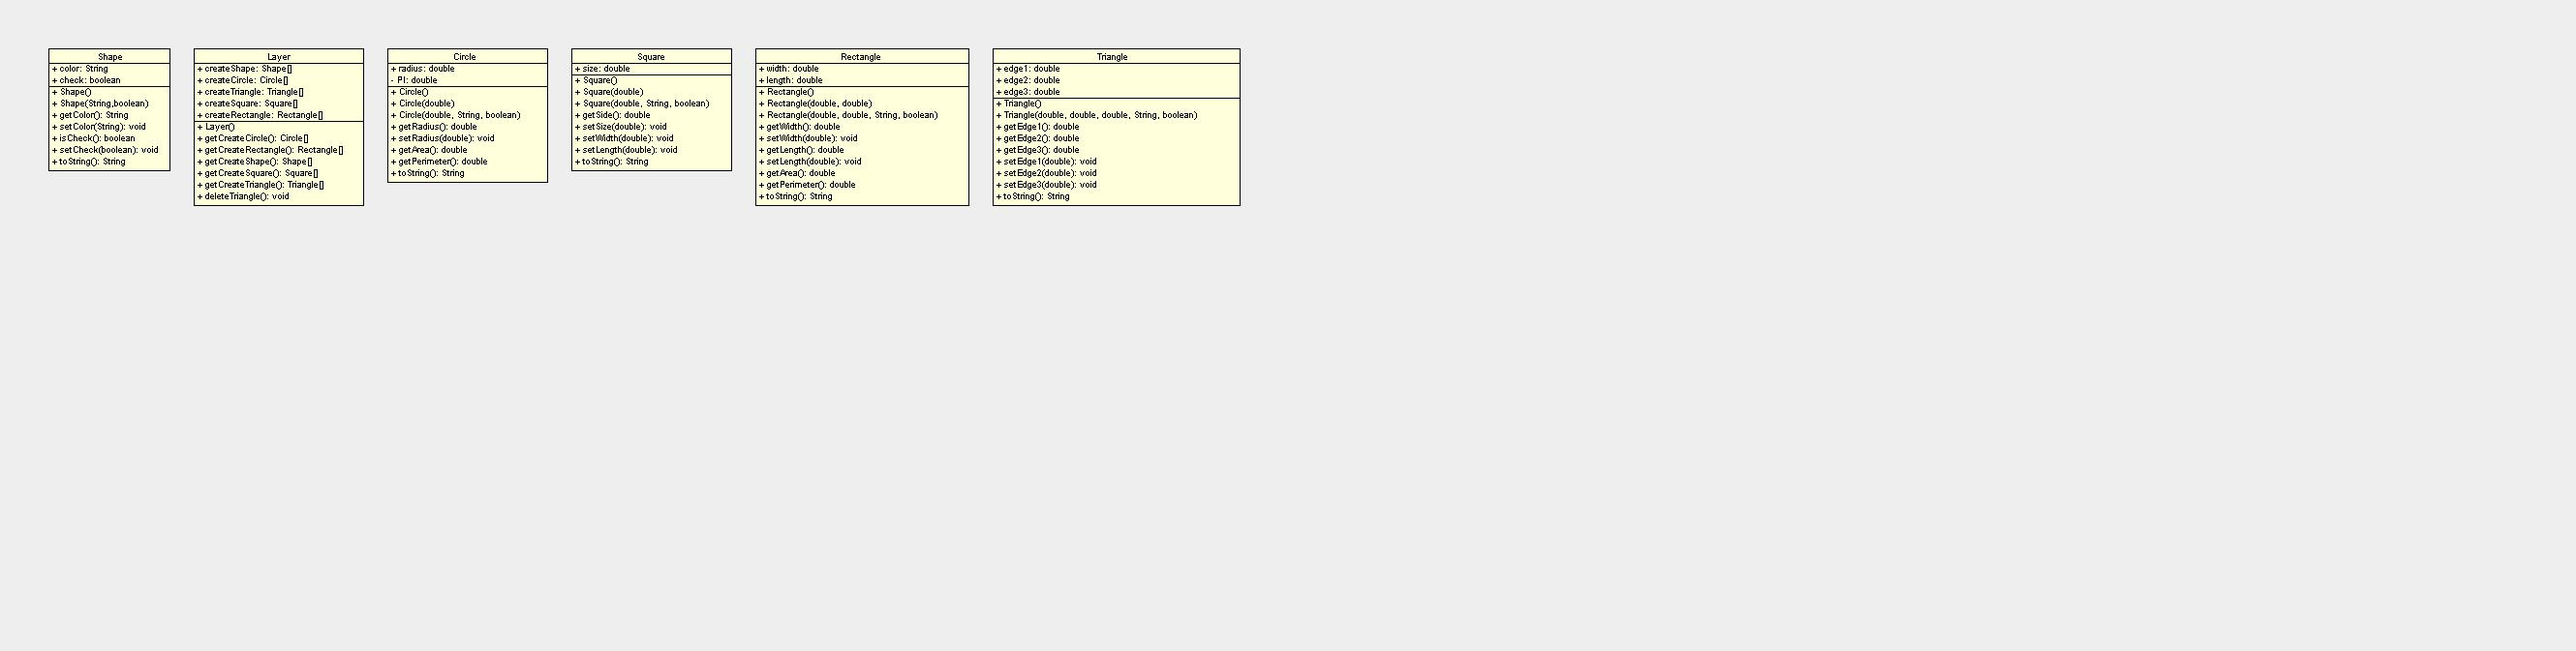
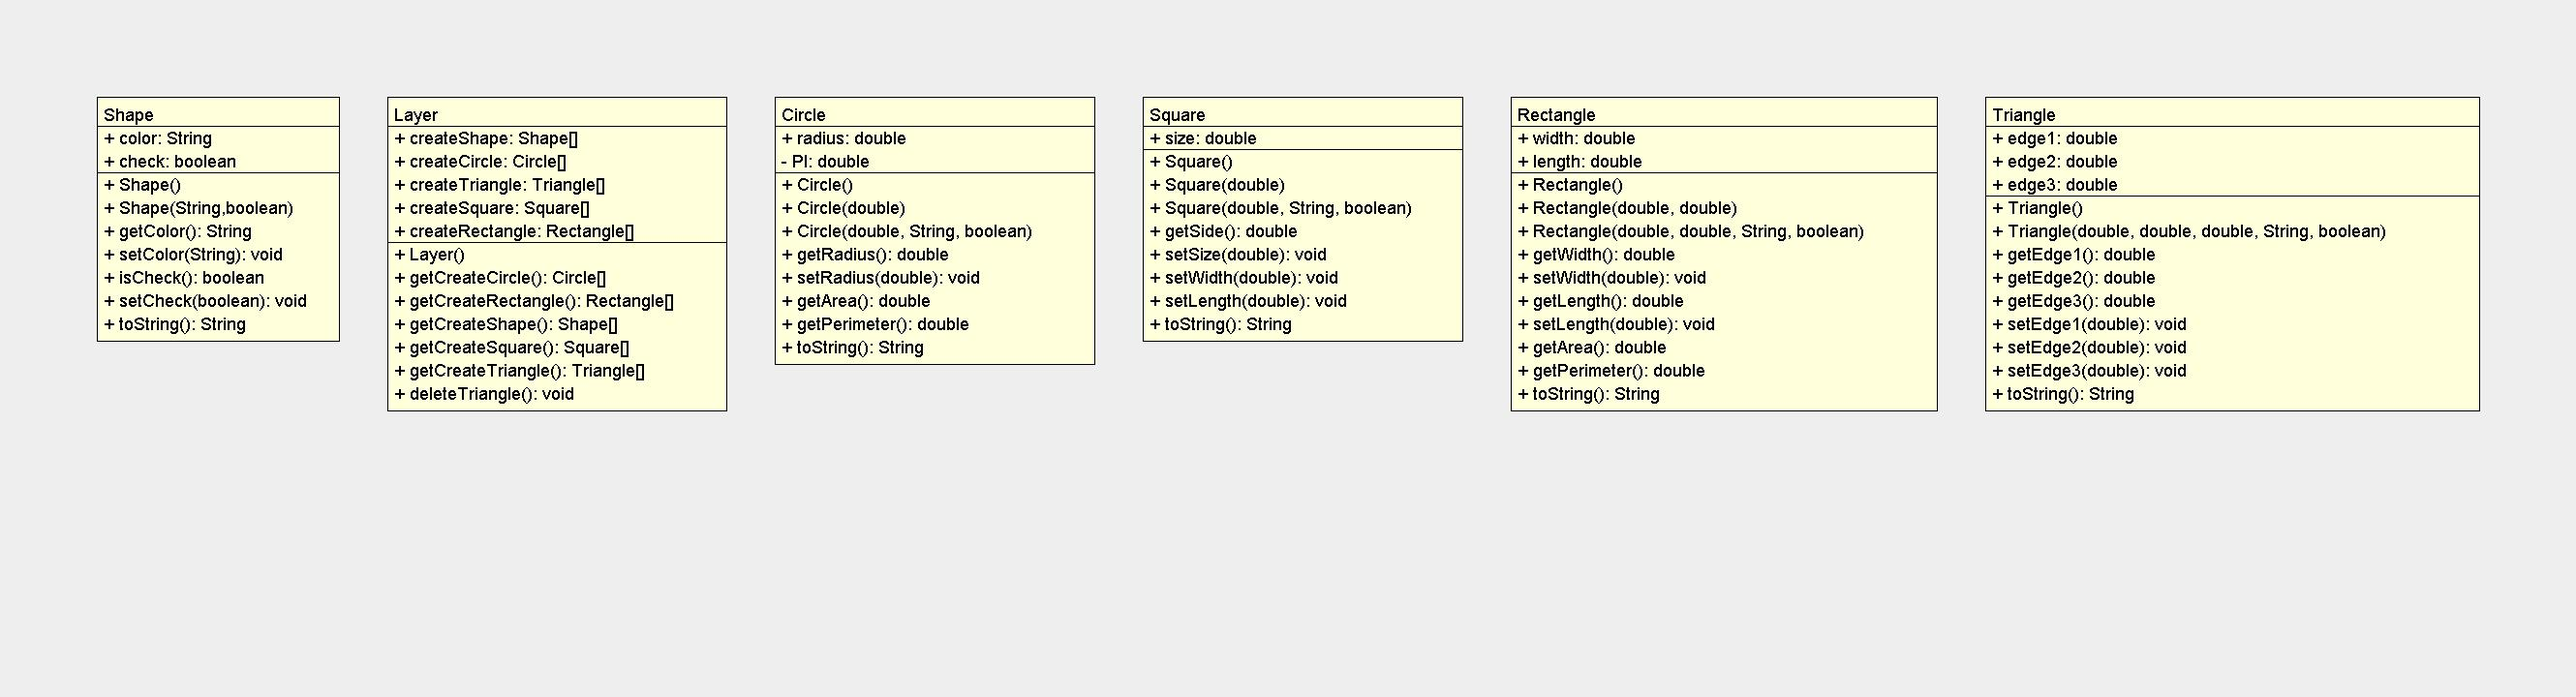
fix preferredsize

Changed region(s): [[0.0, 0.0624, 0.5617, 0.5929], [0.7489, 0.156, 0.9361, 0.5929], [0.5617, 0.156, 0.7177, 0.5929]]

diff --git a/src/diagramFrame.java b/src/diagramFrame.java
@@ -28,7 +28,7 @@ public class diagramFrame extends JFrame {
         getContentPane().add(scrollPane, BorderLayout.CENTER);
 
         // Init JFrame
-        setResizable(false);
+        setResizable(true);
         pack();
         setDefaultCloseOperation(JFrame.DISPOSE_ON_CLOSE);
         setLocationRelativeTo(null);
@@ -39,7 +39,7 @@ public class diagramFrame extends JFrame {
     class diagramPanel extends JPanel {
         int[][] rectLocation;
         double scale = 1;
-        double width, height;
+        double width = 1280, height = 720;
 
 
         public diagramPanel() {
@@ -93,13 +93,13 @@ public class diagramFrame extends JFrame {
                         g2D.drawString(test.getInfo[i][j], rectLocation[i][0] + wordHeight / 2 - 5, rectLocation[i][1] + temp);
                     temp += wordHeight;
                 }
-//                X1 += wordWidth * (test.longestStringLen[i]) + boxSpace;
-//                Y1 = 100;
+
+                // Find max X, max Y
+                if(rectLocation[i][2] + 100 > width) width = rectLocation[i][2] +100;
+                if(rectLocation[i][3] + 100 > height) height = rectLocation[i][3] +100;
             }
 //            width = X1 + 50;
 //            height = Y1 + wordHeight * test.maxNumberClassInfo + 150;
-            width = 4000;
-            height = 3000;
 
             repaint();
         }
@@ -122,8 +122,8 @@ public class diagramFrame extends JFrame {
 
             @Override
             public void mousePressed(MouseEvent e) {
-                rectLocation[0][0] += 10;
-                rectLocation[0][1] += 10;
+//                rectLocation[0][0] += 10;
+//                rectLocation[0][1] += 10;
                 repaint();
             }
 
